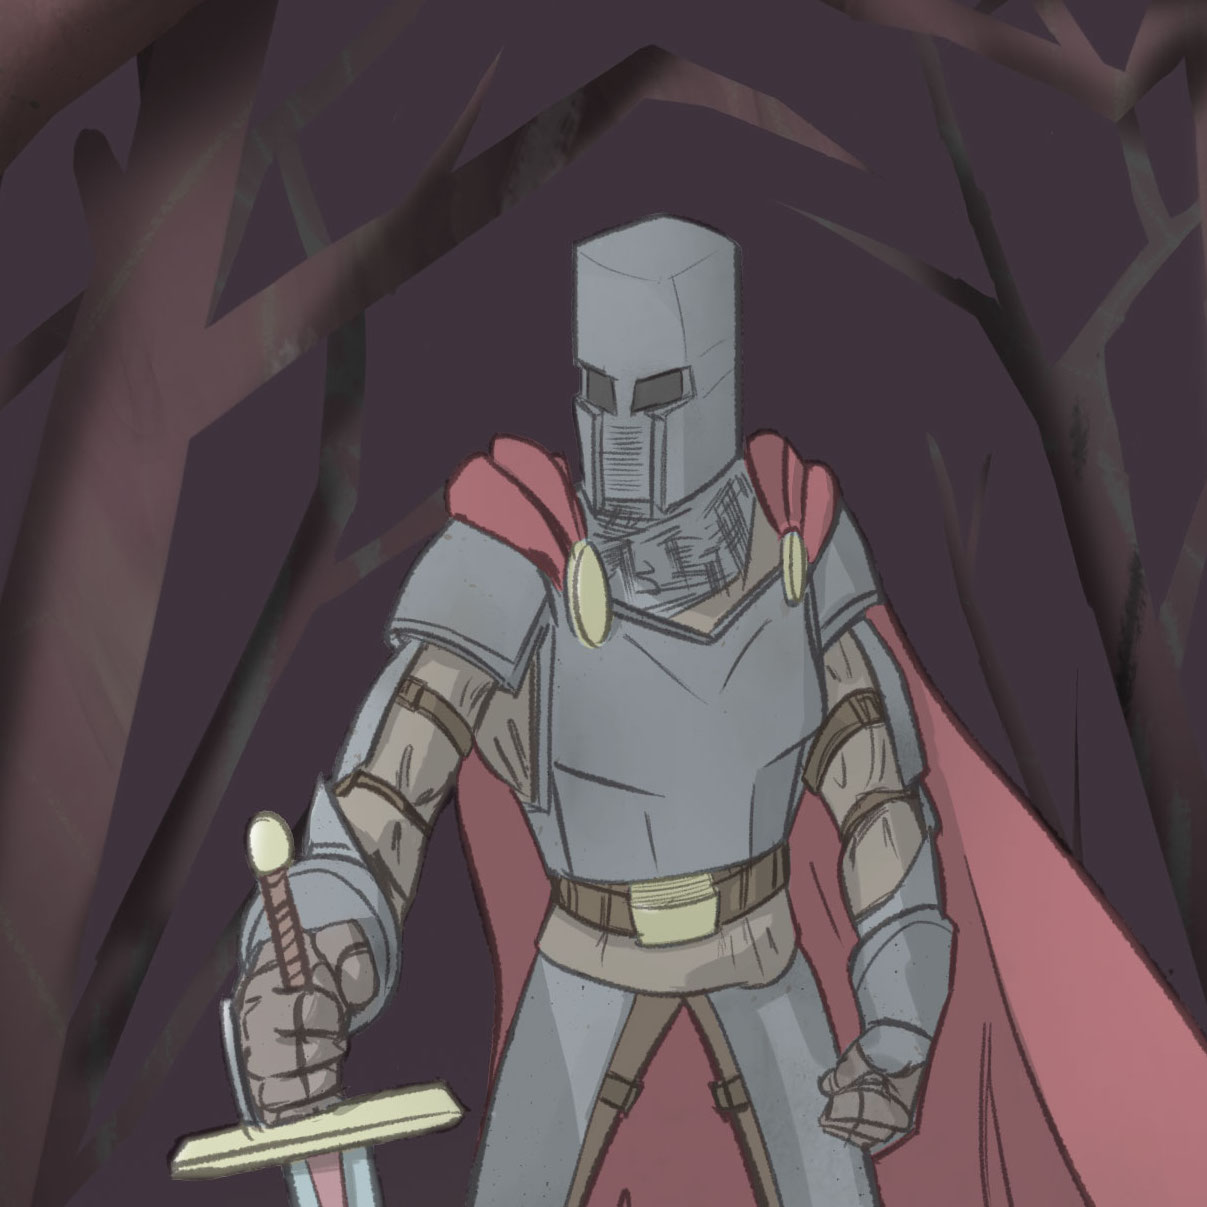
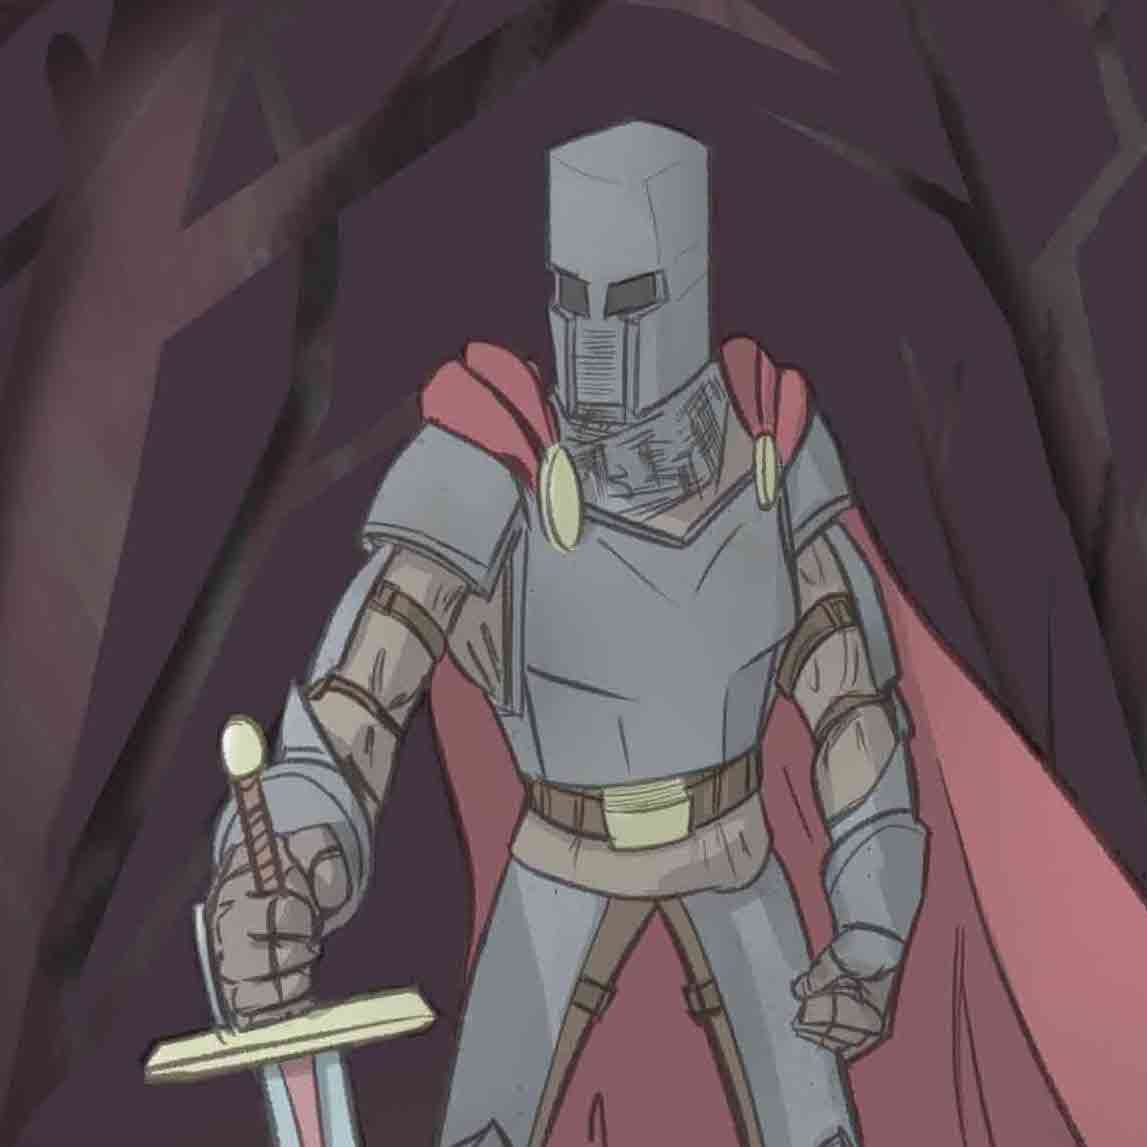
image quality

diff --git a/_layouts/post.html b/_layouts/post.html
@@ -9,8 +9,15 @@ layout: default
 
   <div class="entry" >
     <p style="text-align: center">
-      {{ page.title }} - {{ page.date | date: "%B %e, %Y" }}{{ content }} 
+      {{ page.title }} - {{ page.date | date: "%B %e, %Y" }}
     </p>
+    <p style="text-align: center">
+      <a href="{{ site.baseurl }}/images/hq/{{ page.title }}.png" target="_blank">Higher Quality</a>
+    </p>
+    <p>
+      {{ content }} 
+    </p>
+    
   </div>
 
   {% include disqus.html %}
